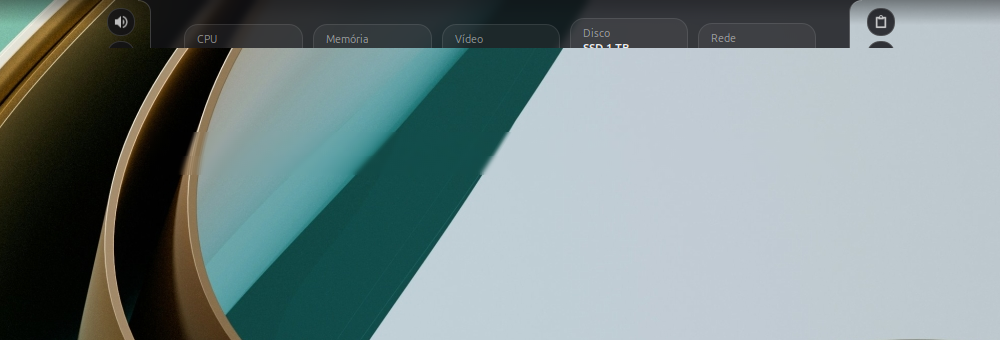
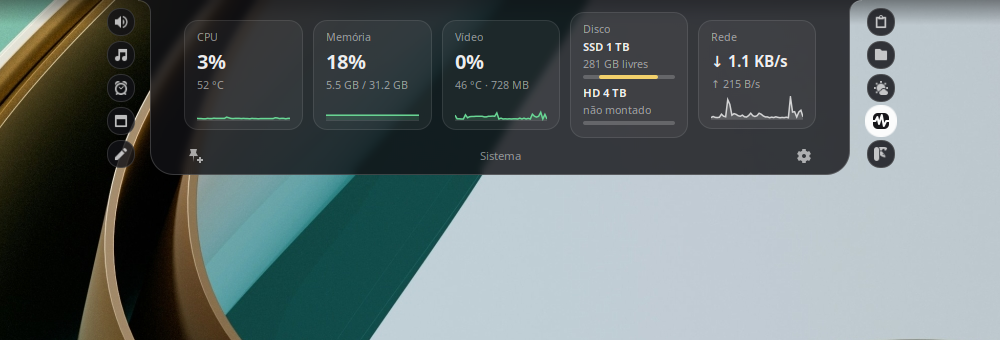
Retake the screenshots that showed the island half open
Three pictures were captured while the screen still showed a stale
frame. Notes the pitfall in CLAUDE.md.

Changed region(s): [[0.093, 0.0588, 0.899, 0.5294]]

diff --git a/CLAUDE.md b/CLAUDE.md
@@ -19,7 +19,7 @@ The app is called **Cinnamon Island** (uuid `cinnamon-island@rovillela`). In the
 - `extension/cinnamon-island@rovillela/`: the Cinnamon extension. `extension.js` is the island itself (shape, animation, tabs); `engine.js` is the D-Bus client of the engine; each tab has its file (`tabVolume.js`, `tabMusic.js`, `tabPomodoro.js` and `tabTime.js` (the Clock tab combines Pomodoro, timer and stopwatch), `tabFiles.js`, `tabNotes.js`, `tabClipboard.js`, `tabSystem.js`, `tabWeather.js`, `tabAgenda.js`, `tabTools.js`, `tabInbox.js`); `slider.js` is the slider and `ruler.js` is the minute ruler (used by the timer and the Pomodoro); `collapsed.js` is what shows while the island is closed. Files import each other with `require('./name')` and export with `module.exports`.
 - `engine/cinnamon_island_engine/`: the Python engine (PyGObject only, no extra dependencies). `service.py` is the base of a tab; `music.py`, `volume.py`, `pomodoro.py`, `files.py`, `notes.py`, `clipboard.py`, `system.py` and `weather.py` (weather and agenda) are the tabs; `timer.py` is the timer and the stopwatch, which share the tab with the Pomodoro; `lyrics.py` fetches song lyrics and `spectrum.py` measures the sound for the wave bars (both serve the Media tab); `tools.py` is the Tools tab and `camera.py` is the camera mirror it opens; `inbox.py` is the Notifications tab (it listens to system notifications through a D-Bus monitor connection; interface `.Inbox`); `net.py` is where every download goes through (http/https only, with a size cap): do not use `urllib` directly. `notices.py` is not a tab: it produces the notices the island shows while collapsed (downloads, Bluetooth, battery).
 - `tools/capture.py`: captures a piece of the real screen to check the looks.
-- `screenshots/`: the pictures the README shows, in English, with the Portuguese set in `screenshots/pt-BR/`. `screenshot.png` at the root is the one the Cinnamon store uses. Retake them with `tools/capture.py` (region `780 0 1000 340` on a 2560 px wide screen) when a tab changes its looks; never capture tabs with personal content (Agenda, Notes, Clipboard, Files, Weather, Notifications).
+- `screenshots/`: the pictures the README shows, in English, with the Portuguese set in `screenshots/pt-BR/`. `screenshot.png` at the root is the one the Cinnamon store uses. Retake them with `tools/capture.py` (region `780 0 1000 340` on a 2560 px wide screen) when a tab changes its looks. Right after "show desktop" the screen can keep showing a stale frame for many seconds, with the island half open: look at every picture before committing it. Never capture tabs with personal content (Agenda, Notes, Clipboard, Files, Weather, Notifications).
 - `install.sh`: installs the engine as a user service (`cinnamon-island-engine.service`), creates the extension link in `~/.local/share/cinnamon/extensions/`, compiles the translations and reloads everything. `./install.sh --remove` undoes it.
 - `package.sh`: builds in `dist/` the extension .zip with the engine inside, the folder in the Cinnamon store layout and the .deb. The version comes from `metadata.json`.
 
